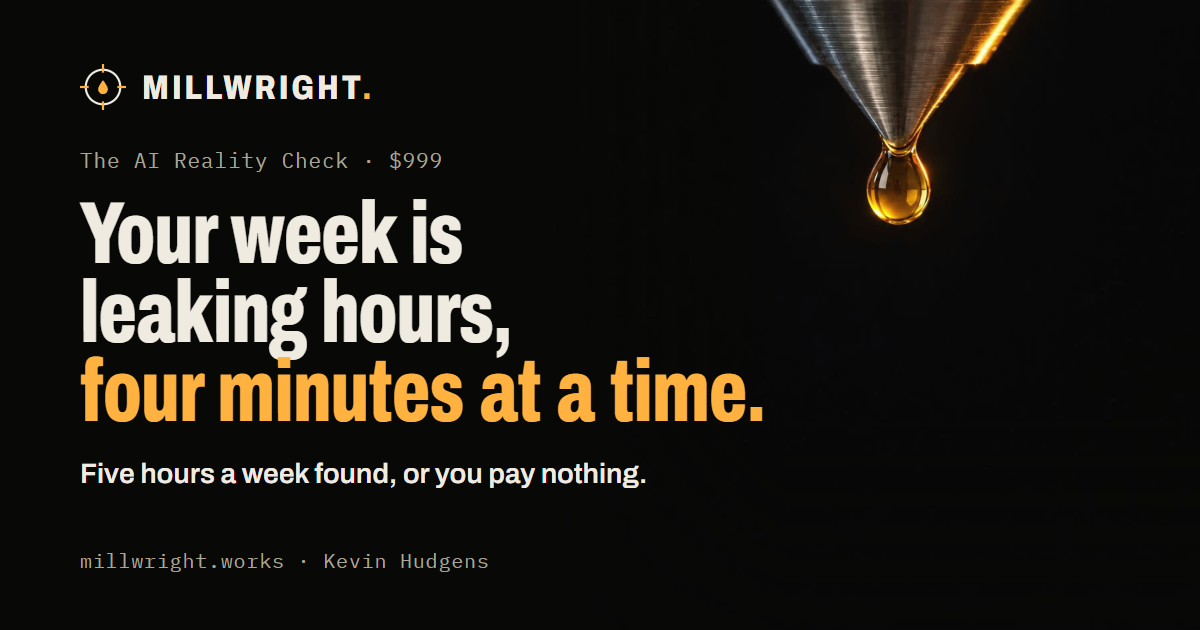
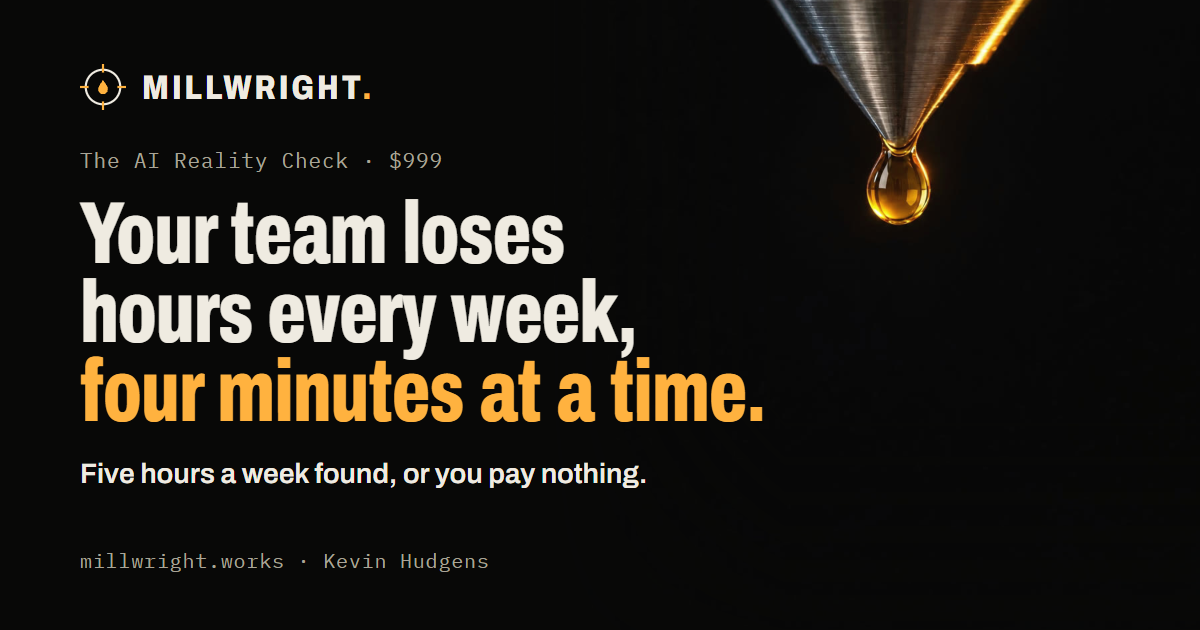
Home page: plainer headline and closing line

Changed region(s): [[0.0617, 0.4222, 0.5242, 0.573], [0.185, 0.3016, 0.4933, 0.4222]]

diff --git a/index.html b/index.html
@@ -6,7 +6,7 @@
 <title>AI Reality Check for Small Businesses | Millwright</title>
 <meta name="description" content="The AI Reality Check: $999. $499 for my first five clients. If I can't find at least five hours a week of manual work I can help you get rid of, you pay nothing.">
 <link rel="canonical" href="https://millwright.works/">
-<meta property="og:title" content="Your week is leaking hours, four minutes at a time.">
+<meta property="og:title" content="Your team loses hours every week, four minutes at a time.">
 <meta property="og:description" content="The AI Reality Check: $999. $499 for my first five clients. If I can't find at least five hours a week of manual work I can help you get rid of, you pay nothing. It starts with a free 20-minute intro call, no obligation.">
 <meta property="og:url" content="https://millwright.works/">
 <meta property="og:type" content="website">
@@ -14,12 +14,12 @@
 <meta property="og:image" content="https://millwright.works/assets/og-home.png">
 <meta property="og:image:width" content="1200">
 <meta property="og:image:height" content="630">
-<meta property="og:image:alt" content="A drop of oil about to fall from a steel nozzle, beside the line: Your week is leaking hours, four minutes at a time.">
+<meta property="og:image:alt" content="A drop of oil about to fall from a steel nozzle, beside the line: Your team loses hours every week, four minutes at a time.">
 <meta name="twitter:card" content="summary_large_image">
-<meta name="twitter:title" content="Your week is leaking hours, four minutes at a time.">
+<meta name="twitter:title" content="Your team loses hours every week, four minutes at a time.">
 <meta name="twitter:description" content="The AI Reality Check: $999. $499 for my first five clients. If I can't find at least five hours a week of manual work I can help you get rid of, you pay nothing. It starts with a free 20-minute intro call, no obligation.">
 <meta name="twitter:image" content="https://millwright.works/assets/og-home.png">
-<meta name="twitter:image:alt" content="A drop of oil about to fall from a steel nozzle, beside the line: Your week is leaking hours, four minutes at a time.">
+<meta name="twitter:image:alt" content="A drop of oil about to fall from a steel nozzle, beside the line: Your team loses hours every week, four minutes at a time.">
 <meta name="theme-color" content="#080807">
 <link rel="icon" href="/favicon.ico" sizes="48x48">
 <link rel="icon" href="/assets/favicon.svg" type="image/svg+xml">
@@ -616,7 +616,7 @@ html.lowh:not(.pin) .row{padding-top:4px}
     </video>
   </div>
   <div class="hero-copy wrap">
-    <h1><span class="l1">Your week is leaking hours,</span> <span class="l2">four minutes at a time.</span></h1>
+    <h1><span class="l1">Your team loses hours every week,</span> <span class="l2">four minutes at a time.</span></h1>
     <p class="lede">Before you ask what AI can do for your business, count what your team still does by hand. <strong>I'll count it with you. If I can't find at least five hours a week of manual work I can help you get rid of, you pay nothing.</strong></p>
     <div class="cta">
       <a class="btn btn-amber" href="/book/">Book a free 20-minute intro call</a>
@@ -780,7 +780,7 @@ html.lowh:not(.pin) .row{padding-top:4px}
     </video>
   </div>
   <div class="wrap">
-    <h2 id="close-h" class="rv">Bring your week.</h2>
+    <h2 id="close-h" class="rv">Count your week with me.</h2>
     <div class="cta rv">
       <a class="btn btn-amber" href="/book/">Book a free 20-minute intro call</a>
     </div>

diff --git a/book/index.html b/book/index.html
@@ -22,12 +22,12 @@
 <meta property="og:image" content="https://millwright.works/assets/og-home.png">
 <meta property="og:image:width" content="1200">
 <meta property="og:image:height" content="630">
-<meta property="og:image:alt" content="A drop of oil about to fall from a steel nozzle, beside the line: Your week is leaking hours, four minutes at a time.">
+<meta property="og:image:alt" content="A drop of oil about to fall from a steel nozzle, beside the line: Your team loses hours every week, four minutes at a time.">
 <meta name="twitter:card" content="summary_large_image">
 <meta name="twitter:title" content="Book a free 20-minute intro call">
 <meta name="twitter:description" content="Twenty minutes to see whether a Reality Check is worth it for you. If it isn't, I'll say so. Free, no obligation.">
 <meta name="twitter:image" content="https://millwright.works/assets/og-home.png">
-<meta name="twitter:image:alt" content="A drop of oil about to fall from a steel nozzle, beside the line: Your week is leaking hours, four minutes at a time.">
+<meta name="twitter:image:alt" content="A drop of oil about to fall from a steel nozzle, beside the line: Your team loses hours every week, four minutes at a time.">
 <meta name="theme-color" content="#080807">
 <link rel="icon" href="/favicon.ico" sizes="48x48">
 <link rel="icon" href="/assets/favicon.svg" type="image/svg+xml">
